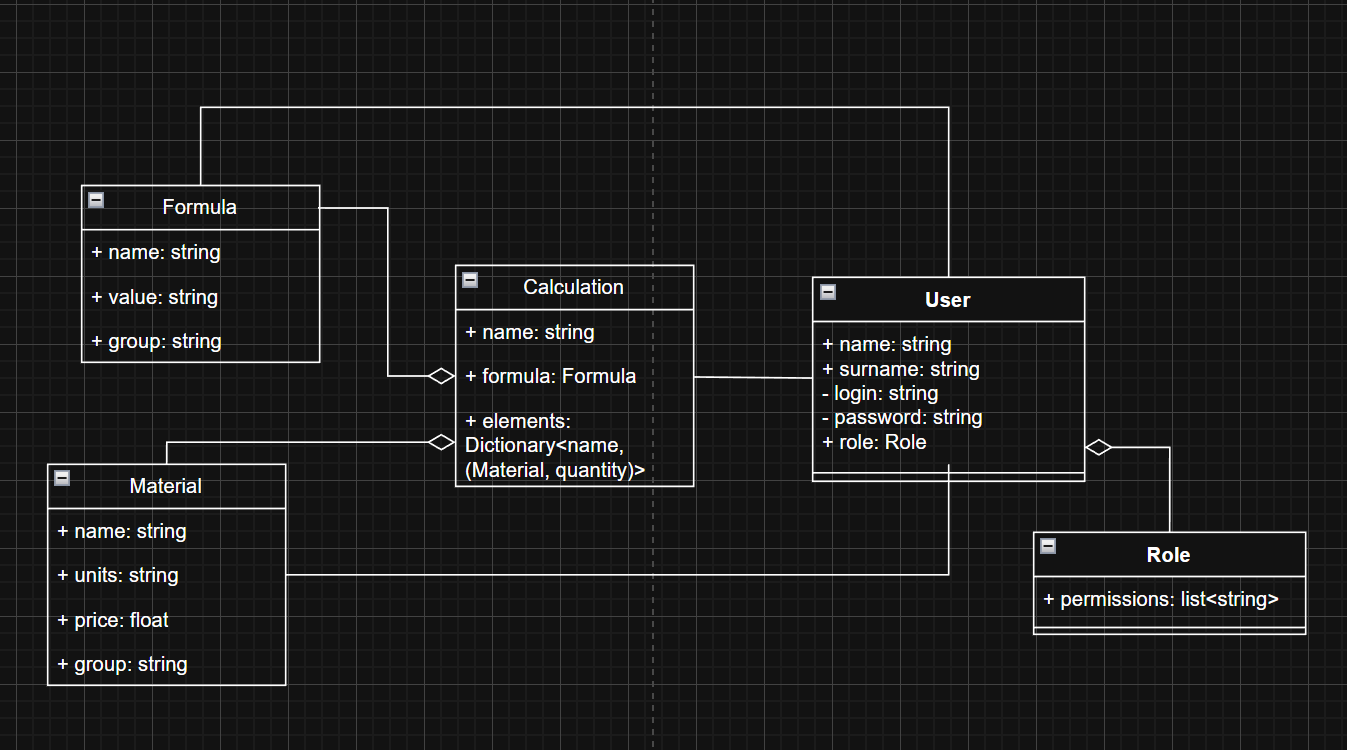
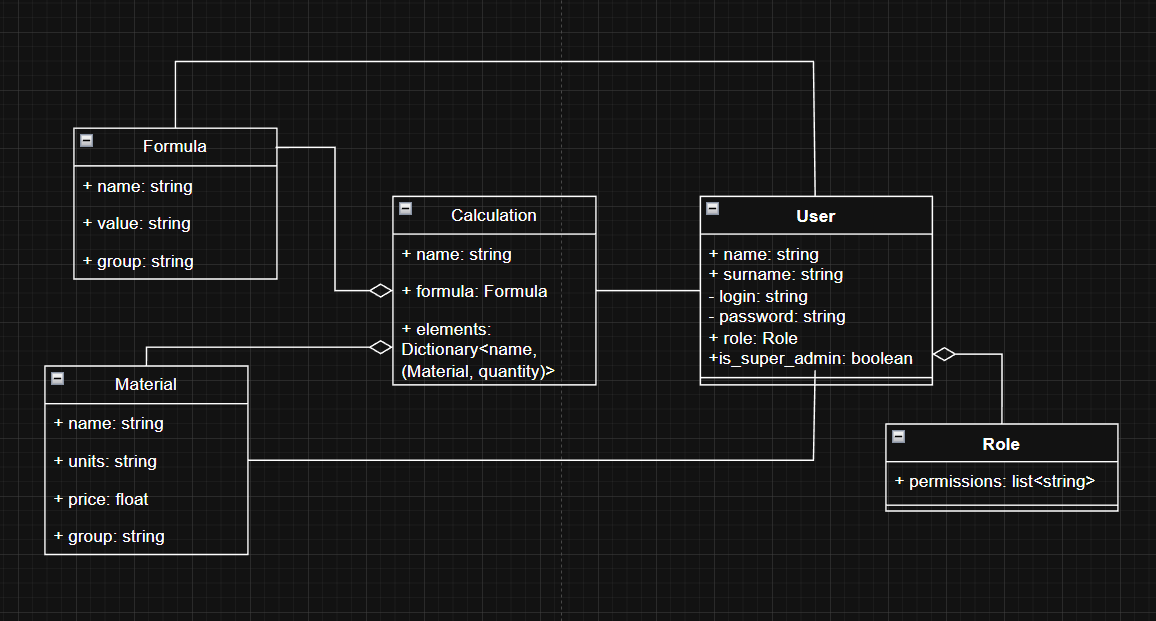
edits in domain_model and buiышd n_model and business_classes

Changed region(s): [[0.0311, 0.0918, 0.9965, 0.9179], [0.6851, 0.1836, 0.7163, 0.2142]]

diff --git a/docs/01-business-model/business-classes.md b/docs/01-business-model/business-classes.md
@@ -126,7 +126,7 @@
 
 ### User (Пользователь)
 
-**Описание:** Субъект системы. Администратор создаётся при инициализации, не может быть удалён. Пользователь без роли может войти в систему, но не имеет доступа ни к одной функции.
+**Описание:** Субъект системы. Супер-администратор создаётся при инициализации системы, не может быть удалён и не может потерять флаг `is_super_admin` — это обеспечивается триггерами на уровне БД. Пользователь без роли может войти в систему, но не имеет доступа ни к одной функции.
 
 **Атрибуты:**
 
@@ -138,6 +138,7 @@
 | name | VARCHAR(32) | Имя |
 | surname | VARCHAR(32) | Фамилия |
 | role | UserRole | Назначенная роль (необязательно, FK → user_role) |
+| is_super_admin | BOOLEAN | Флаг супер-администратора; защищён от удаления и сброса на уровне БД |
 
 ---
 

diff --git a/docs/02-requirements/use-case-specifications.md b/docs/02-requirements/use-case-specifications.md
@@ -19,7 +19,7 @@
 1. В строке нужного пользователя нажимает «Удалить»
 2. Система запрашивает подтверждение
 3. Пользователь подтверждает — запись удаляется
-> Кнопка «Удалить» отсутствует у учётной записи Администратора
+> Кнопка «Удалить» отсутствует у учётной записи супер-администратора (флаг `is_super_admin = true`). Дополнительно удаление заблокировано триггером на уровне БД — защита работает даже при прямом обращении к базе данных
 
 **Исключения:**
 - Логин уже занят → система выводит ошибку валидации

diff --git a/docs/02-requirements/domain-model.md b/docs/02-requirements/domain-model.md
@@ -62,6 +62,7 @@ class User {
     password: String
     name: String
     surname: String
+    is_super_admin: Boolean
 }
 
 MaterialGroup "1" --> "0..*" Material : содержит
@@ -86,7 +87,7 @@ UserRole "0..*" --> "0..*" Permission : включает
 | CalculationItem | Одна позиция расчёта: плейсхолдер → материал + количество |
 | UserRole | Именованный набор прав доступа |
 | Permission | Атомарное разрешение на действие в области системы |
-| User | Субъект системы с логином, паролем и опциональной ролью |
+| User | Субъект системы с логином, паролем, опциональной ролью и флагом супер-администратора |
 
 ## Связи
 
